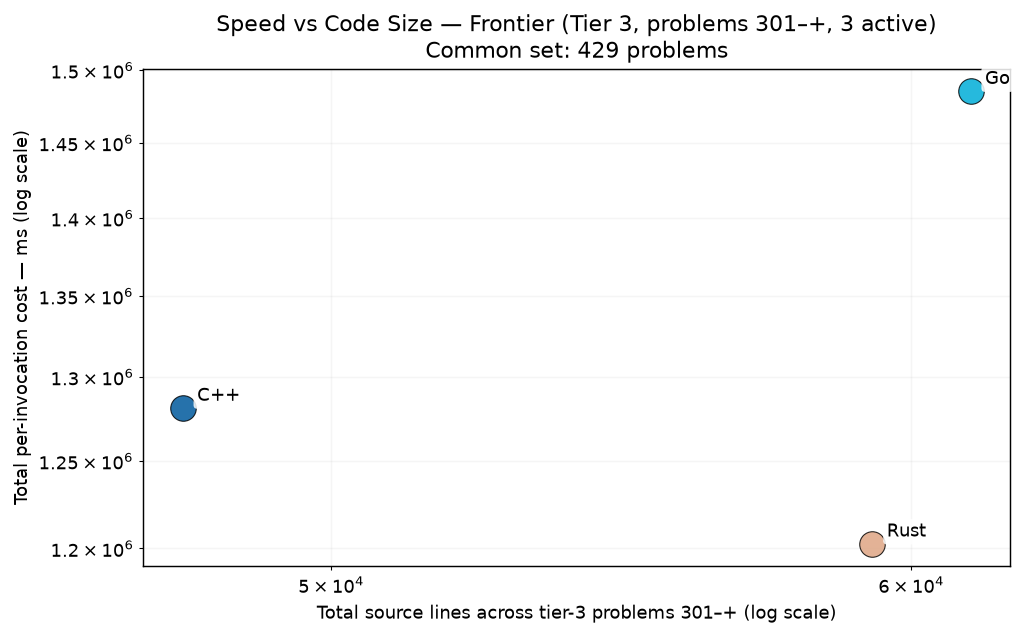
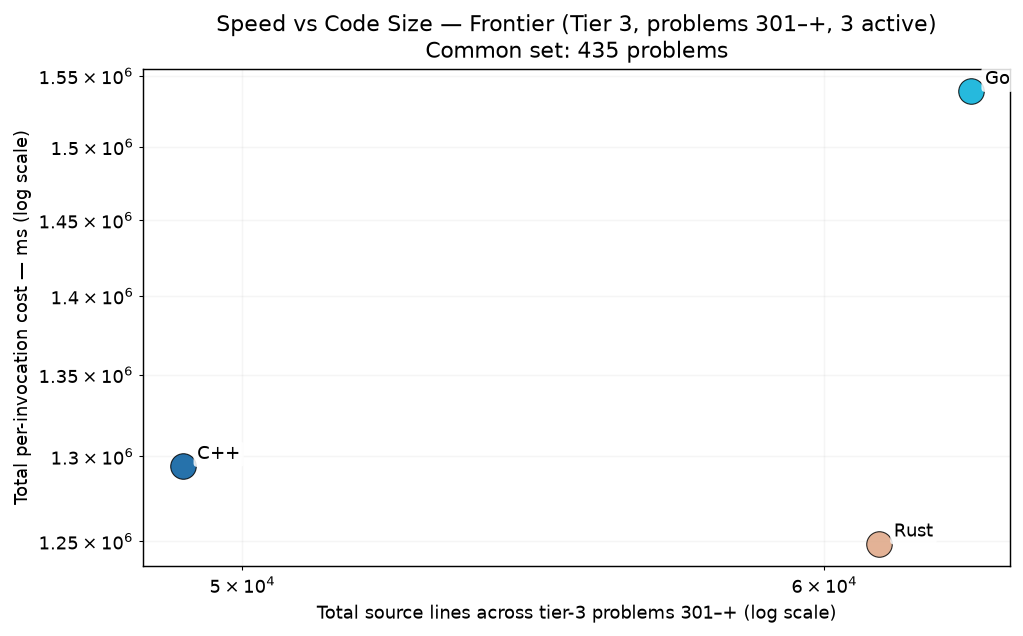
bench: frontier trio solves p0728,p0809,p0865,p0875,p0919,p0928

diff --git a/RESULTS.md b/RESULTS.md
@@ -1,6 +1,6 @@
 # Project Euler — Cross-Language Benchmarks
 
-> **Scope: 4521 in-scope cells across 1007 problems × tiered languages — 3702 measured (81.9% coverage).**
+> **Scope: 4521 in-scope cells across 1007 problems × tiered languages — 3720 measured (82.3% coverage).**
 > The cross-language ranking below is computed over the **199-problem common set** (problems in 1-200 where every language has a passing measurement) — the apples-to-apples Foundation comparison surface.  Per-tier rankings and coverage detail appear further below.
 > Growing carefully — each new problem and language is audited for state-leak
 > safety, verified for answer correctness, and added only when it cleanly fits the
@@ -70,15 +70,15 @@ Same scatter as the Foundation chart, restricted to the tier-2 active languages 
 
 The frontier verification trio — C++, Go, Rust — on problems above 300. 3-way cross-language agreement is the verification protocol (strictly stronger than 2-way; see JOURNEY.md "Tier Reframing" episode for the p254 lesson that motivated it). Python and Zig are explicitly out of this tier — python's wall cost makes it impractical at level 5+, and zig's role caps at Tier 2.
 
-### Per-Invocation Cost (Common Set, 429 of ≤707 problems in scope)
+### Per-Invocation Cost (Common Set, 435 of ≤707 problems in scope)
 
 ![Per-Invocation Cost — Tier 3](charts/per_iter_total_tier3.png)
 
-| Rank | Language | Geomean (429-problem common set) | Total (sum) | Lines of code | vs Fastest |
+| Rank | Language | Geomean (435-problem common set) | Total (sum) | Lines of code | vs Fastest |
 |------|----------|--------------------:|------------:|--------------:|-----------:|
-| 1 | **Rust** | 56.17 ms | 1202.65 s | 59,271 | 1.00× |
-| 2 | **C++** | 60.13 ms | 1281.25 s | 47,719 | 1.07× |
-| 3 | **Go** | 74.95 ms | 1485.34 s | 61,129 | 1.33× |
+| 1 | **Rust** | 57.80 ms | 1248.47 s | 61,043 | 1.00× |
+| 2 | **C++** | 60.69 ms | 1294.04 s | 49,072 | 1.05× |
+| 3 | **Go** | 77.23 ms | 1538.97 s | 62,812 | 1.34× |
 
 ### Speed vs Code Size
 

diff --git a/per_problem/per_problem_0801-0900.md b/per_problem/per_problem_0801-0900.md
@@ -16,7 +16,7 @@ in tier-1 display order (native → managed → interpreted).
 | **p0806** | — | — | — |
 | **p0807** | — | — | — |
 | **p0808** | ✗ fail | — | — |
-| **p0809** | — | — | — |
+| **p0809** | 23.3 µs | 12.22 ms | 60.34 ms |
 | **p0810** | 9.57 s | 2.00 s | 8.93 s |
 | **p0811** | — | — | — |
 | **p0812** | — | — | — |
@@ -72,7 +72,7 @@ in tier-1 display order (native → managed → interpreted).
 | **p0862** | 1.32 ms | 4.49 ms | 72.97 ms |
 | **p0863** | 14.15 ms | 44.65 ms | 19.34 ms |
 | **p0864** | — | — | — |
-| **p0865** | — | — | — |
+| **p0865** | 19.45 ms | 57.53 ms | 61.91 ms |
 | **p0866** | 5.1 µs | 670.1 µs | 35.2 µs |
 | **p0867** | — | — | — |
 | **p0868** | 1.7 µs | 16.31 ms | 5.8 µs~ |
@@ -82,7 +82,7 @@ in tier-1 display order (native → managed → interpreted).
 | **p0872** | <1 µs~ | <1 µs | 1.1 µs~ |
 | **p0873** | 4.91 s | 2.14 s | 2.33 s |
 | **p0874** | 70.78 ms | 49.75 ms | 89.57 ms |
-| **p0875** | — | — | — |
+| **p0875** | 202.22 ms | 97.93 ms | 168.93 ms |
 | **p0876** | — | — | — |
 | **p0877** | <1 µs | 1.96 s | 1.1 µs~ |
 | **p0878** | — | — | — |

diff --git a/per_problem/per_problem_0901-1000.md b/per_problem/per_problem_0901-1000.md
@@ -26,7 +26,7 @@ in tier-1 display order (native → managed → interpreted).
 | **p0916** | — | — | — |
 | **p0917** | — | — | — |
 | **p0918** | 10.4 µs | 4.29 ms | 7.60 ms |
-| **p0919** | — | — | — |
+| **p0919** | 9.73 s | 41.38 s | 49.15 s |
 | **p0920** | 748.87 ms | 235.28 ms | 4.59 s |
 | **p0921** | — | — | — |
 | **p0922** | — | — | — |
@@ -35,7 +35,7 @@ in tier-1 display order (native → managed → interpreted).
 | **p0925** | — | — | — |
 | **p0926** | 98.31 ms | 87.14 ms | 137.41 ms |
 | **p0927** | — | — | — |
-| **p0928** | — | — | — |
+| **p0928** | 2.57 s | 3.43 s | 3.44 s |
 | **p0929** | — | — | — |
 | **p0930** | — | — | — |
 | **p0931** | — | — | — |

diff --git a/per_problem/per_problem_0701-0800.md b/per_problem/per_problem_0701-0800.md
@@ -35,7 +35,7 @@ in tier-1 display order (native → managed → interpreted).
 | **p0725** | 13.89 ms | 6.64 ms | 9.29 ms |
 | **p0726** | — | — | — |
 | **p0727** | 5.51 ms | 2.47 ms | 4.48 ms |
-| **p0728** | — | — | — |
+| **p0728** | 270.39 ms | 842.95 ms | 746.77 ms |
 | **p0729** | — | — | — |
 | **p0730** | — | — | — |
 | **p0731** | 117.5 µs | 73.5 µs | 69.0 µs |
